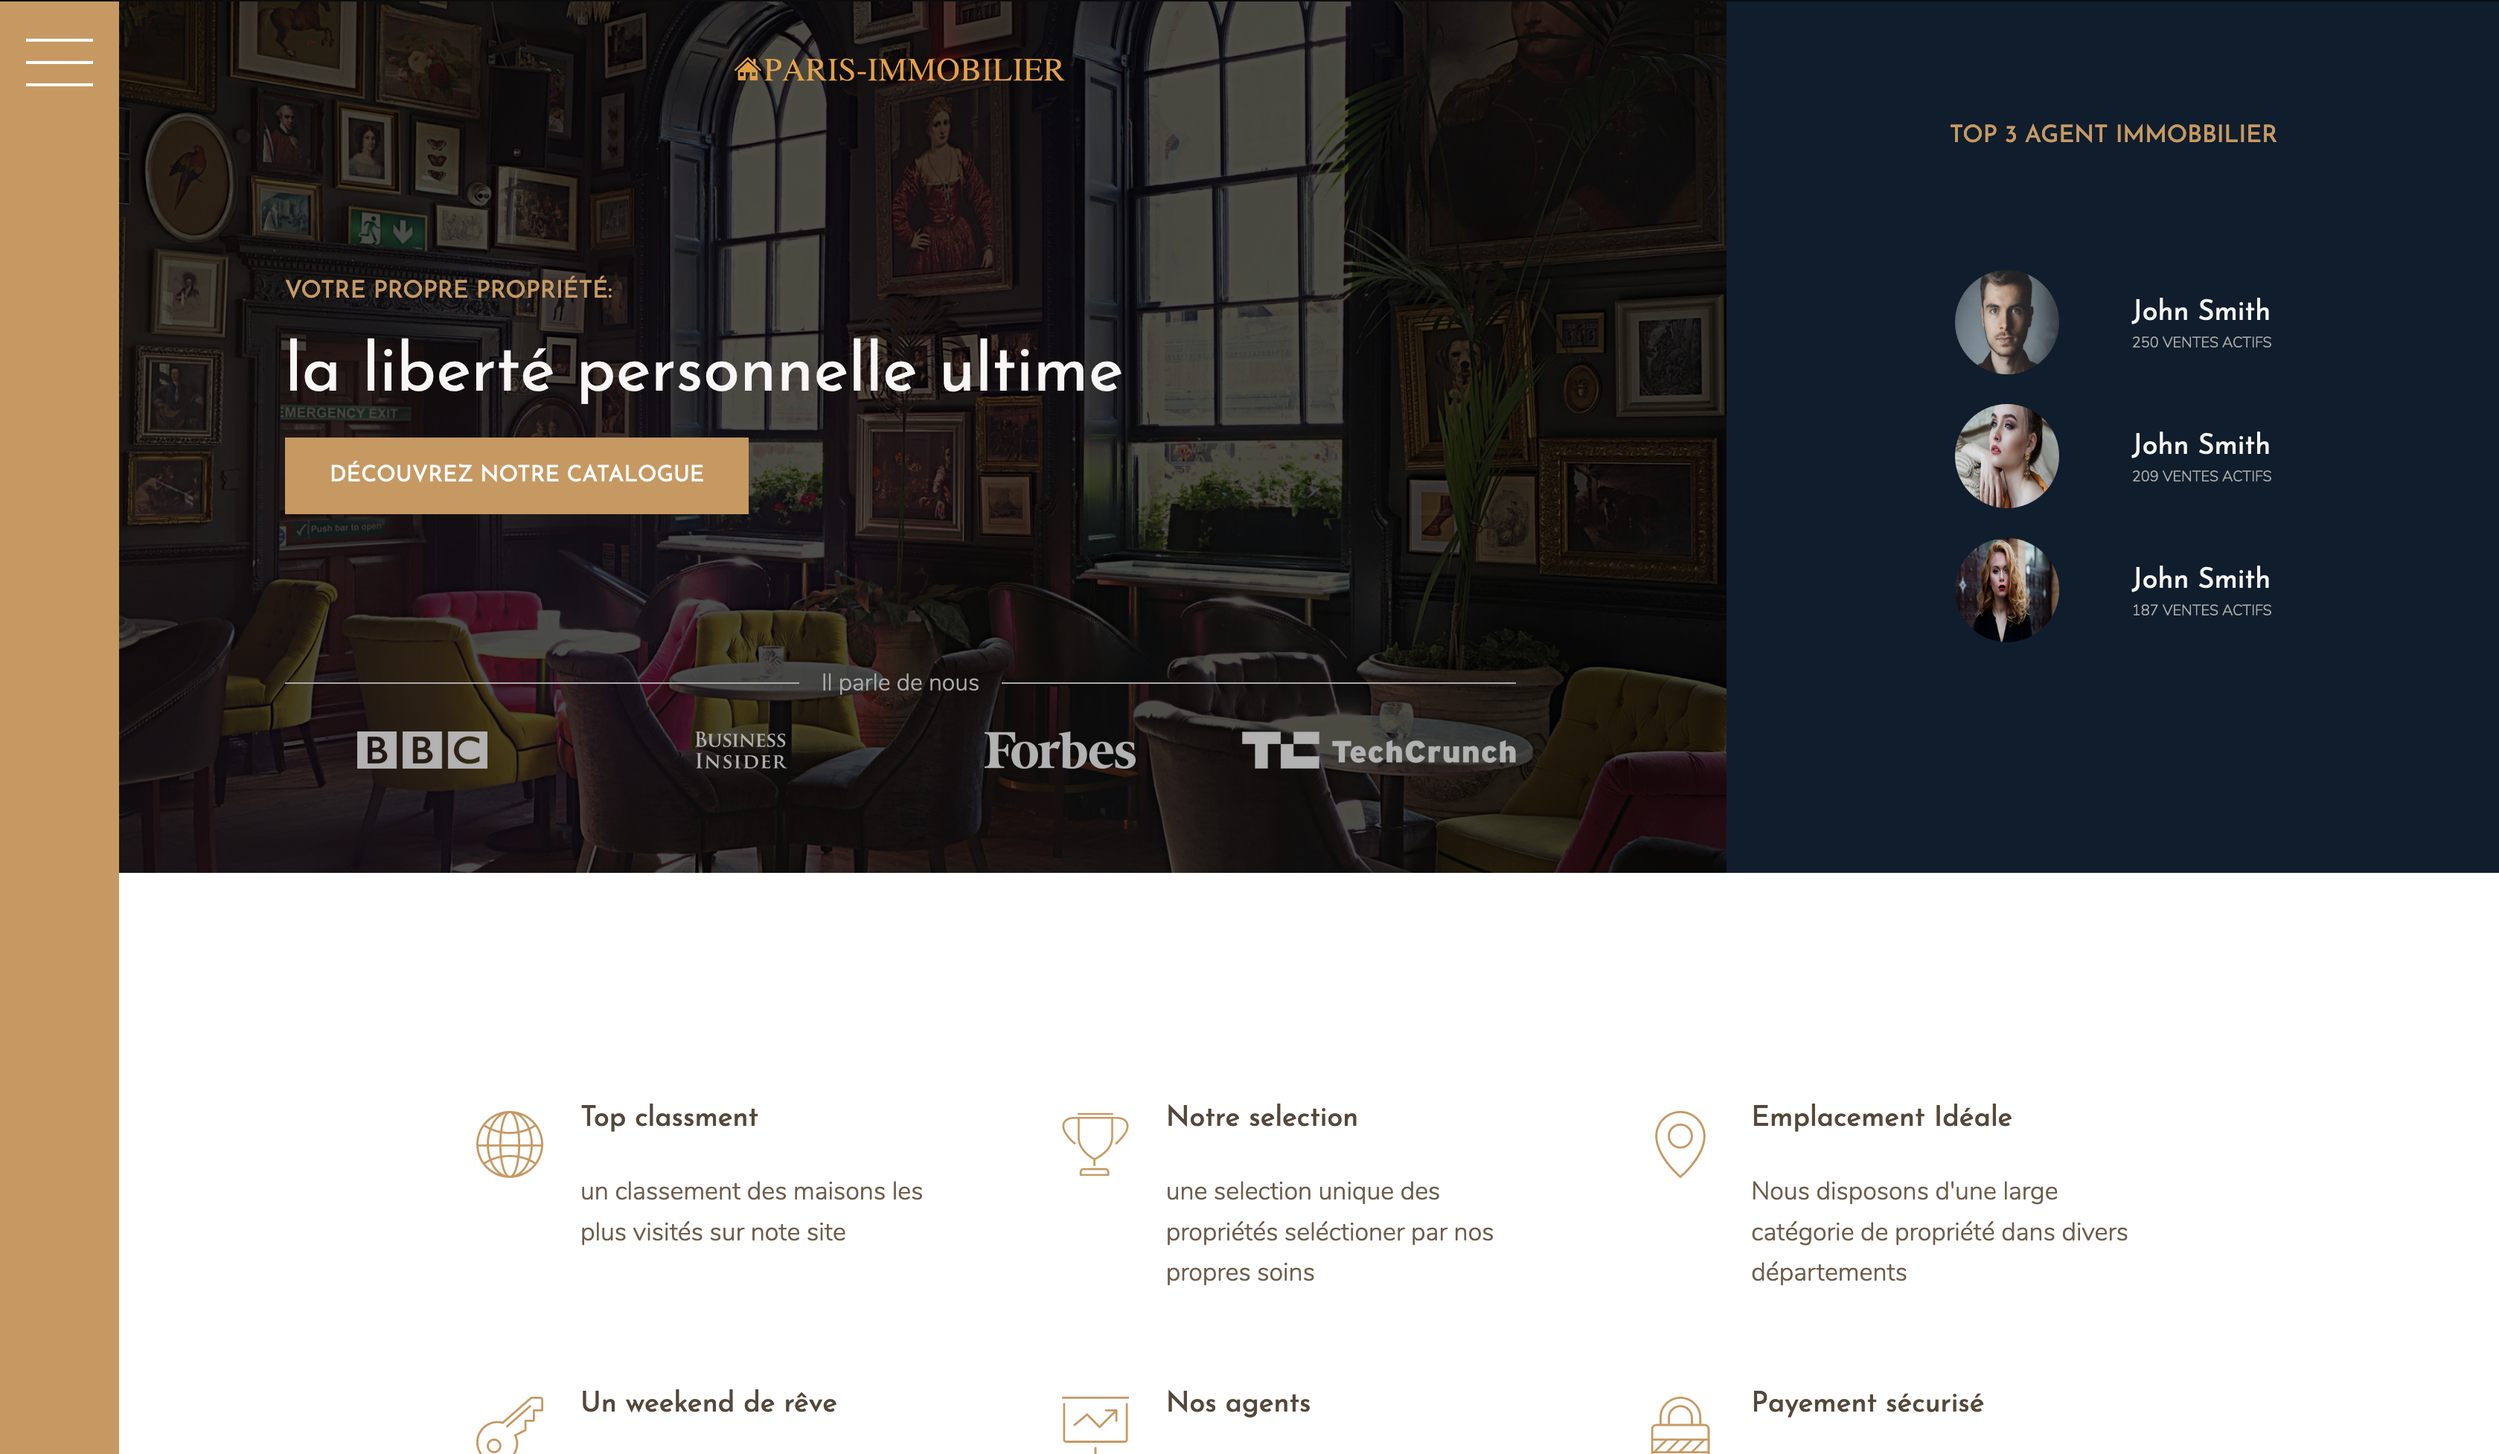
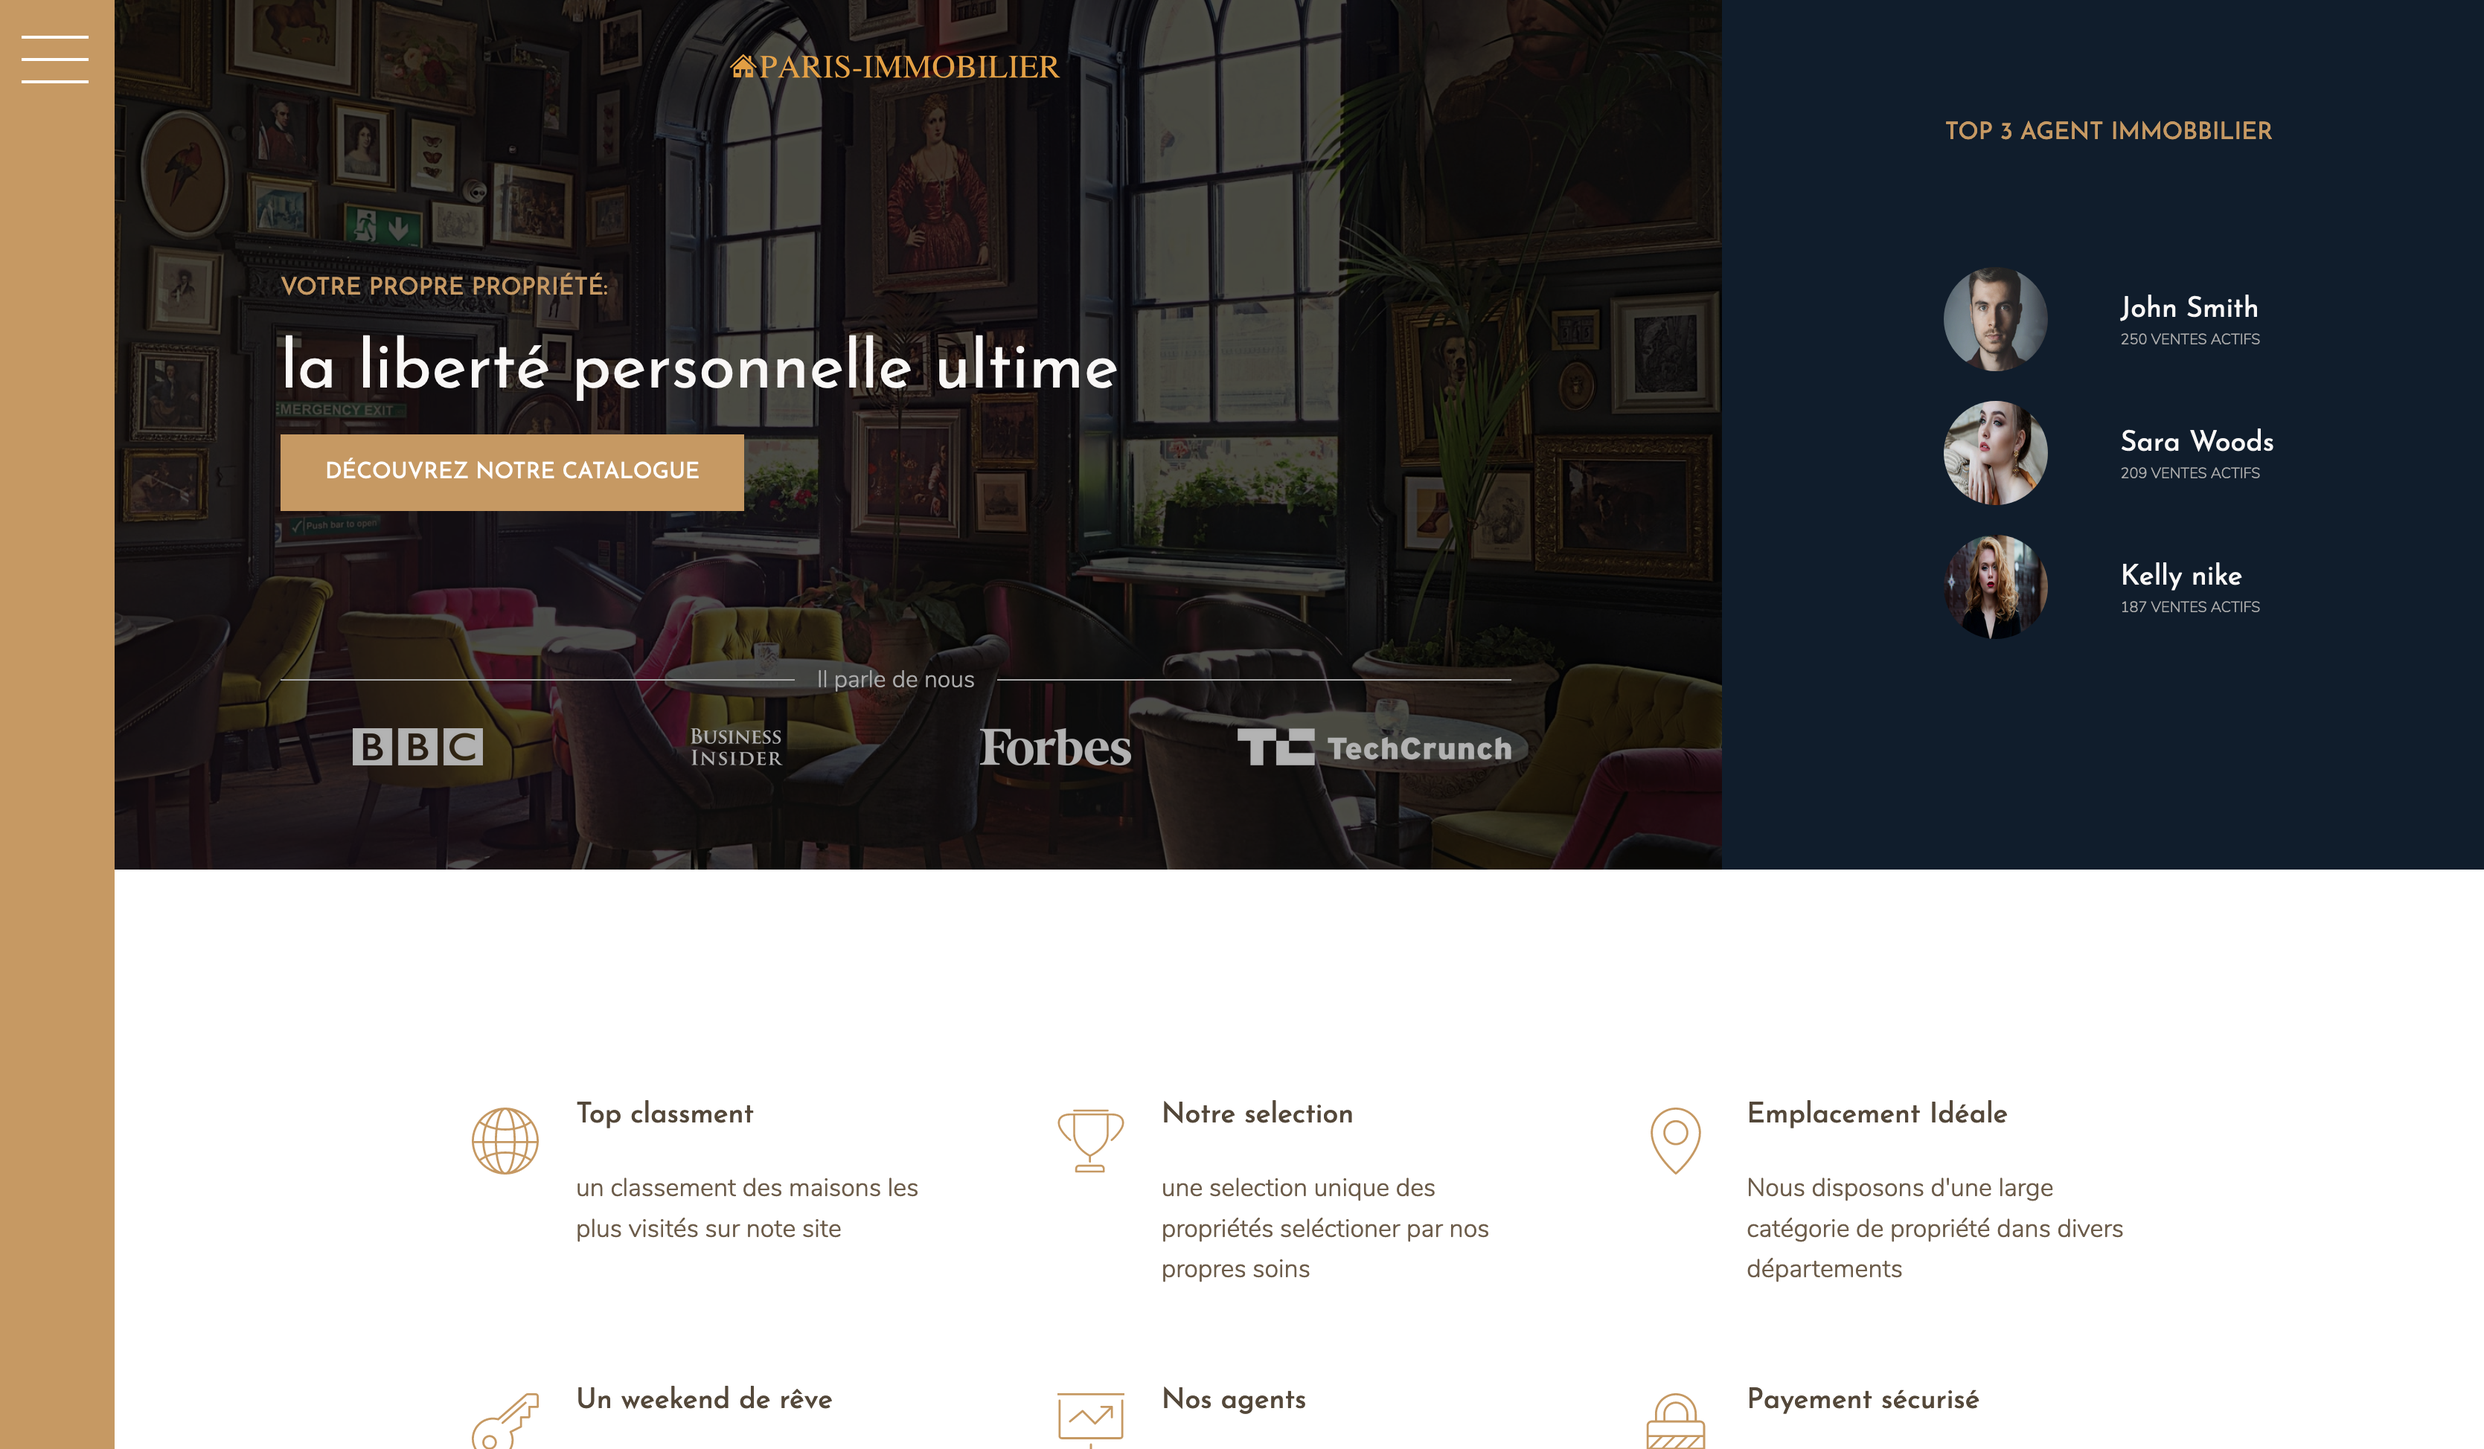
chore: update index file

diff --git a/index.html b/index.html
@@ -13,14 +13,14 @@
       rel="stylesheet"
     />
     <link rel="stylesheet" href="./css/style.css" />
-    <link rel="apple-touch-icon" sizes="180x180" href="/img/apple-touch-icon.png">
-<link rel="icon" type="image/png" sizes="32x32" href="/img/favicon-32x32.png">
-<link rel="icon" type="image/png" sizes="16x16" href="/img/favicon-16x16.png">
-<link rel="manifest" href="/img/site.webmanifest">
-<link rel="mask-icon" href="/img/safari-pinned-tab.svg" color="#5bbad5">
-<link rel="shortcut icon" href="/img/favicon.ico">
+    <link rel="apple-touch-icon" sizes="180x180" href="./img/apple-touch-icon.png">
+<link rel="icon" type="image/png" sizes="32x32" href="./img/favicon-32x32.png">
+<link rel="icon" type="image/png" sizes="16x16" href="./img/favicon-16x16.png">
+<link rel="manifest" href="./img/site.webmanifest">
+<link rel="mask-icon" href="./img/safari-pinned-tab.svg" color="#5bbad5">
+<link rel="shortcut icon" href="./img/favicon.ico">
 <meta name="msapplication-TileColor" content="#2b5797">
-<meta name="msapplication-config" content="/img/browserconfig.xml">
+<meta name="msapplication-config" content="./img/browserconfig.xml">
 <meta name="theme-color" content="#ffffff">
   </head>
   <body class="container">
@@ -51,12 +51,12 @@
         </div>
         <img src="https://images.pexels.com/photos/458766/pexels-photo-458766.jpeg?auto=compress&cs=tinysrgb&dpr=2&w=500"  class="realtors__img">
         <div class="realtors__details">
-          <h4 class="heading-4 heading-4--light">John Smith</h4>
+          <h4 class="heading-4 heading-4--light">Sara Woods</h4>
           <p class="realtors__text">209 ventes actifs</p>
         </div>
         <img src="https://images.pexels.com/photos/247322/pexels-photo-247322.jpeg?auto=compress&cs=tinysrgb&dpr=2&h=750&w=1260"  class="realtors__img">
         <div class="realtors__details">
-          <h4 class="heading-4 heading-4--light">John Smith</h4>
+          <h4 class="heading-4 heading-4--light">Kelly nike</h4>
           <p class="realtors__text">187 ventes actifs</p>
         </div>
       </div>

diff --git a/css/style.css b/css/style.css
@@ -71,7 +71,7 @@ body {
 
 .header {
   grid-column: full-start / col-end 6;
-  background-image: linear-gradient(rgba(0, 0, 0, 0.7), rgba(0, 0, 0, 0.7)), url(../../img/bg-header.jpg);
+  background-image: linear-gradient(rgba(0, 0, 0, 0.7), rgba(0, 0, 0, 0.7)), url(../img/bg-header.jpg);
   background-size: cover;
   background-position: center;
   display: grid;

diff --git a/sass/layout/_header.scss b/sass/layout/_header.scss
@@ -4,7 +4,7 @@
       rgba($color-dark, 0.7),
       rgba($color-dark, 0.7)
     ),
-    url(../../img/bg-header.jpg);
+    url(../img/bg-header.jpg);
   background-size: cover;
   background-position: center;
   display: grid;
